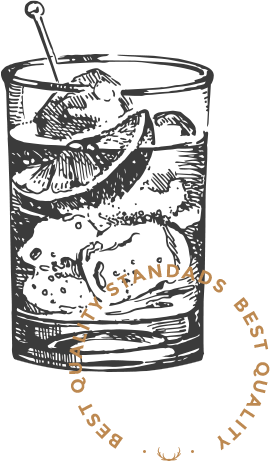
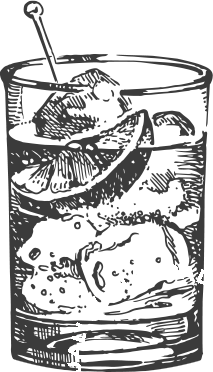
Keep welcome glass illustration, drop only the circular stamp
The stamp text was baked into the artwork, so it is erased by colour
(gold stamp vs neutral line art) and the image retrimmed.

diff --git a/index.html b/index.html
@@ -414,7 +414,7 @@
 							<section class="spb75rem" id="about">
 								<div class="container">
 									<div class="columns_wrap sc_columns">
-										<div class="column-1_1 sc_column_item odd first">
+										<div class="column-1_2 sc_column_item odd first">
 											<h5 class="sc_title sc_align_left margin_top_small margin_bottom_tiny">Shortly About Us</h5>
 											<h1 class="sc_title welcome_script sc_align_left margin_top_null margin_bottom_small">Welcome</h1>
 											<h3 class="sc_title sc_title_style_1">
@@ -433,6 +433,10 @@
 											</div>
 											<a href="#menu-section" class="sc_button sc_button_square sc_button_style_filled sc_button_size_small margin_top_medium">Menu</a>
 											<a href="#enquiry" class="sc_button sc_button_square sc_button_style_filled sc_button_size_small margin_top_medium margin_left_small">Make an Enquiry</a>
+										</div><div class="column-1_2 sc_column_item even">
+											<figure class="sc_image sc_image_shape_square margin_top_huge margin_left_small">
+												<img src="images/home-1-welcome.png" alt="Chowbe Bar" />
+											</figure>
 										</div>
 									</div>
 								</div>

diff --git a/css/chowbe.css b/css/chowbe.css
@@ -29,9 +29,6 @@ h1.welcome_script{
 	color:#c19d68;
 }
 
-/* ---- About section after illustration removed ---- */
-#about .column-1_1{max-width:720px;}
-
 /* ---- Anchor offset so fixed header doesn't cover section tops ---- */
 #about,#types,#menu-section,#enquiry,#note{scroll-margin-top:90px;}
 
